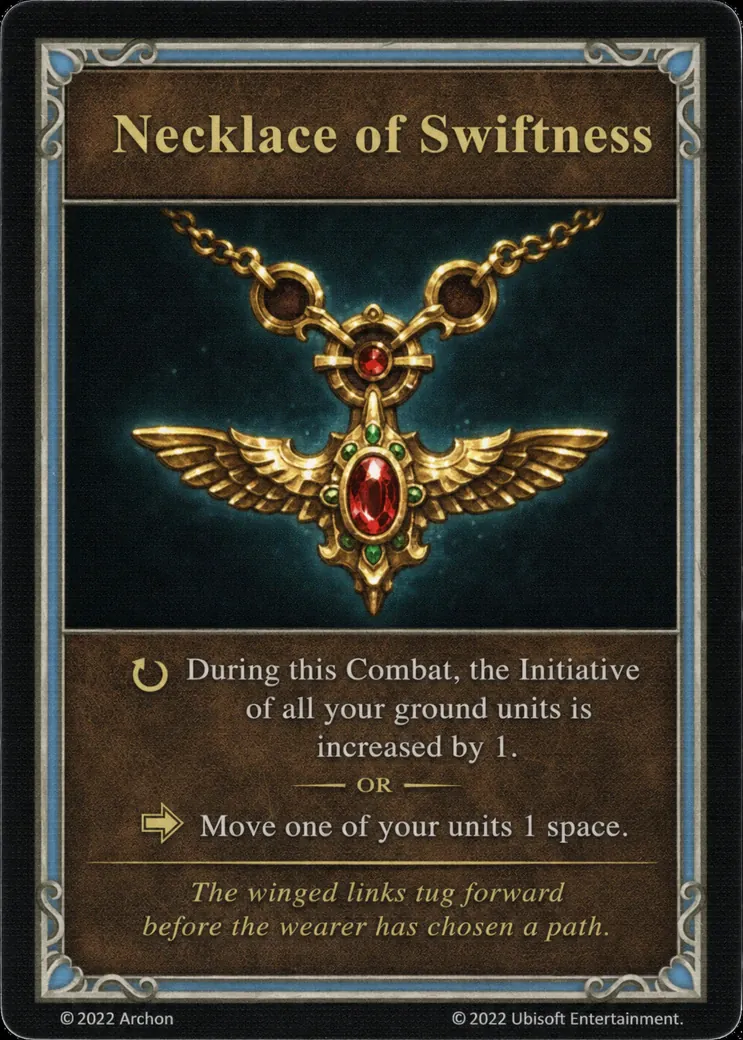
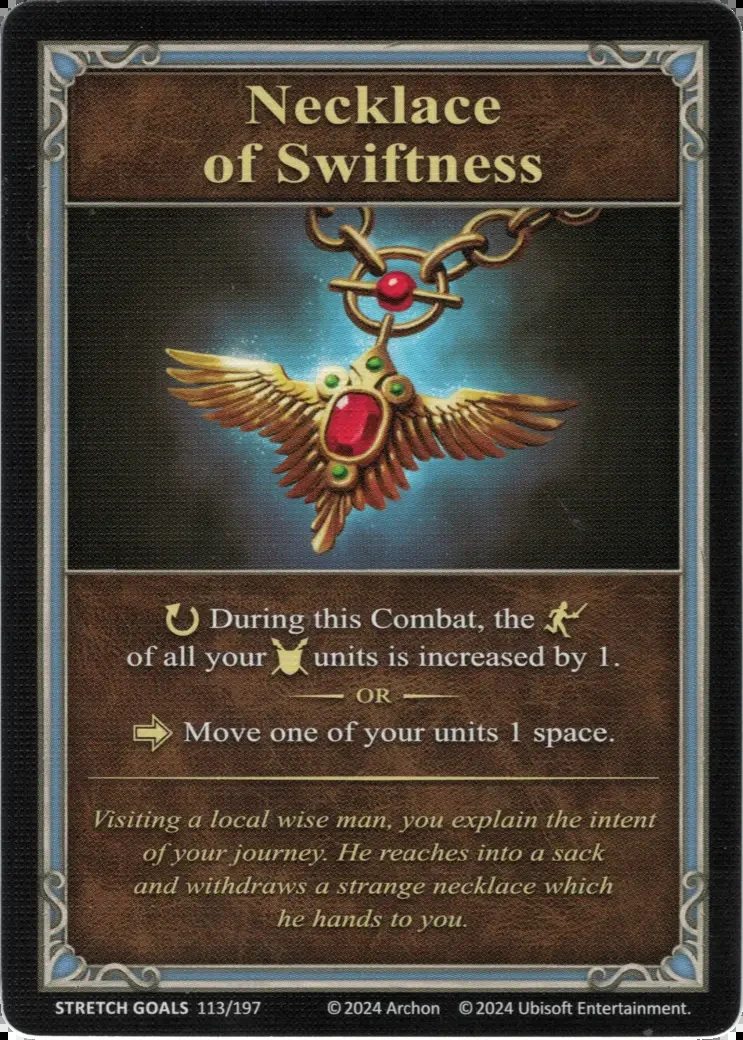
Artifact card faces: all 9 Regular Stretch Goals 2024 artifacts get real wiki scans
- scripts/fetch-artifact-art-refresh.py: skull helmet, necklace of
  swiftness, eversmoking ring of sulfur, necklace of dragonteeth,
  pendant of courage, pendant of negativity, celestial necklace of
  bliss, lion's shield of courage, sandals of the saint (contiguous
  STRETCH GOALS 112-120/197 footers verified per face)
- previously locally generated originals, now printed 743x1040 scans,
  q92, all under 250KB; idempotent re-run verified
- full suite green: 657 files, 8544 passed

diff --git a/scripts/fetch-artifact-art-refresh.py b/scripts/fetch-artifact-art-refresh.py
@@ -1,0 +1,139 @@
+#!/usr/bin/env python3
+"""
+Refresh the "Regular Stretch Goals 2024" Artifact card faces from the fan wiki
+en.homm3bg.wiki, which hosts UPDATED printed-card scans for that group.
+
+Scope
+-----
+EXACTLY the nine artifacts the wiki lists under the group
+"Regular Stretch Goals 2024" (https://en.homm3bg.wiki/content/regular_stretch_goals/,
+the Content column of https://en.homm3bg.wiki/artifacts/). Artifacts printed in
+the Core Game or any expansion are NOT touched by this script — pass their own
+scan batch instead. Every one of the nine already exists as a repo card in
+src/data/cards/artifacts.ts (each is also pinned in
+src/data/cards/artifact-card-art.test.ts's ORIGINAL_REPLACEMENT_SLUGS), so this
+script only ever REPLACES a face — it never introduces a new asset name.
+
+The wiki's asset names mirror the repo's 1:1 for all nine
+(artifacts_{minor,major,relic}-<slug>.webp), verified against each artifact's own
+wiki page; there is no remote/local rename in this batch (contrast
+scripts/fetch-missing-spell-card-art.py, where Torso of Legion needed one).
+
+Every download is validated (HTTP 200 + decodable WEBP + card-sized) and the
+script aborts loudly on any miss, so a 404 HTML error page can never be written
+as an asset, and a scan SMALLER than the printed card size is refused rather than
+upscaled. Files are re-encoded deterministically (WEBP q=92 method=6) and written
+ONLY when the bytes actually differ, so a re-run is a no-op.
+
+Do NOT run scripts/compress-media.mjs over these files afterwards: it would
+re-encode them at its q82 default and undo this batch's quality.
+"""
+import io
+import os
+import ssl
+import sys
+import urllib.request
+from pathlib import Path
+
+from PIL import Image
+
+OUT = Path(__file__).resolve().parent.parent / "public" / "assets"
+BASE = "https://en.homm3bg.wiki/assets"
+CARD_SIZE = (743, 1040)
+QUALITY = 92
+METHOD = 6
+SIZE_BUDGET_KB = 250
+
+# The nine "Regular Stretch Goals 2024" artifacts, as (remote filename on the
+# wiki, local filename in public/assets). Identical names in this batch — the
+# pair is kept explicit so a future rename is a one-line edit.
+DOWNLOADS = [
+    # Relic
+    ("artifacts_relic-celestial_necklace_of_bliss.webp", "artifacts_relic-celestial_necklace_of_bliss.webp"),
+    ("artifacts_relic-lions_shield_of_courage.webp", "artifacts_relic-lions_shield_of_courage.webp"),
+    ("artifacts_relic-sandals_of_the_saint.webp", "artifacts_relic-sandals_of_the_saint.webp"),
+    # Major
+    ("artifacts_major-necklace_of_dragonteeth.webp", "artifacts_major-necklace_of_dragonteeth.webp"),
+    ("artifacts_major-pendant_of_courage.webp", "artifacts_major-pendant_of_courage.webp"),
+    ("artifacts_major-pendant_of_negativity.webp", "artifacts_major-pendant_of_negativity.webp"),
+    # Minor
+    ("artifacts_minor-eversmoking_ring_of_sulfur.webp", "artifacts_minor-eversmoking_ring_of_sulfur.webp"),
+    ("artifacts_minor-necklace_of_swiftness.webp", "artifacts_minor-necklace_of_swiftness.webp"),
+    ("artifacts_minor-skull_helmet.webp", "artifacts_minor-skull_helmet.webp"),
+]
+
+
+def _ctx() -> ssl.SSLContext:
+    ctx = ssl.create_default_context()
+    ca = "/root/.ccr/ca-bundle.crt"  # agent-proxy MITM bundle, when present
+    if os.path.exists(ca):
+        ctx.load_verify_locations(ca)
+    return ctx
+
+
+def fetch(url: str) -> bytes:
+    req = urllib.request.Request(url, headers={"User-Agent": "Mozilla/5.0 (homm3bg-card-art-importer)"})
+    with urllib.request.urlopen(req, timeout=60, context=_ctx()) as resp:
+        if resp.status != 200:
+            raise SystemExit(f"FAIL {resp.status} {url}")
+        return resp.read()
+
+
+def load_card(raw: bytes, url: str) -> Image.Image:
+    try:
+        im = Image.open(io.BytesIO(raw))
+        im.load()
+    except Exception as exc:  # noqa: BLE001
+        raise SystemExit(f"FAIL {url} is not a decodable image ({exc}) — 404 page?")
+    if im.format != "WEBP":
+        raise SystemExit(f"FAIL {url} is {im.format}, expected WEBP")
+    if im.width < 400 or im.height < 600:
+        raise SystemExit(f"FAIL {url} is suspiciously small {im.size}")
+    if im.size != CARD_SIZE:
+        # Never invent resolution: only downscale/normalise a LARGER scan.
+        if im.width < CARD_SIZE[0] or im.height < CARD_SIZE[1]:
+            raise SystemExit(f"FAIL {url} is {im.size}, smaller than the printed card {CARD_SIZE}")
+        im = im.convert("RGB").resize(CARD_SIZE, Image.LANCZOS)
+    return im.convert("RGB")
+
+
+def encode(im: Image.Image, local: str) -> bytes:
+    """q=92/method=6, dropping quality only if the card blows the size budget."""
+    for quality in (QUALITY, 88, 84):
+        buf = io.BytesIO()
+        im.save(buf, "WEBP", quality=quality, method=METHOD)
+        data = buf.getvalue()
+        if len(data) <= SIZE_BUDGET_KB * 1024:
+            if quality != QUALITY:
+                print(f"    note {local} needed q={quality} to fit {SIZE_BUDGET_KB}KB")
+            return data
+    print(f"    WARNING {local} is {len(data)/1024:.0f}KB (>{SIZE_BUDGET_KB}KB budget)", file=sys.stderr)
+    return data
+
+
+def main() -> None:
+    OUT.mkdir(parents=True, exist_ok=True)
+    new = updated = unchanged = 0
+    for remote, local in DOWNLOADS:
+        url = f"{BASE}/{remote}"
+        im = load_card(fetch(url), url)
+        data = encode(im, local)
+        dst = OUT / local
+        before = dst.read_bytes() if dst.exists() else None
+        if before is None:
+            state = "NEW"
+            new += 1
+        elif before == data:
+            state = "unchanged"
+            unchanged += 1
+        else:
+            state = "updated"
+            updated += 1
+        if state != "unchanged":
+            dst.write_bytes(data)
+        print(f"  {state:9s} {local:52s} {im.size[0]}x{im.size[1]}  {len(data)/1024:6.0f}KB")
+    print(f"Done. {new} new, {updated} updated, {unchanged} unchanged in {OUT}")
+
+
+if __name__ == "__main__":
+    main()
